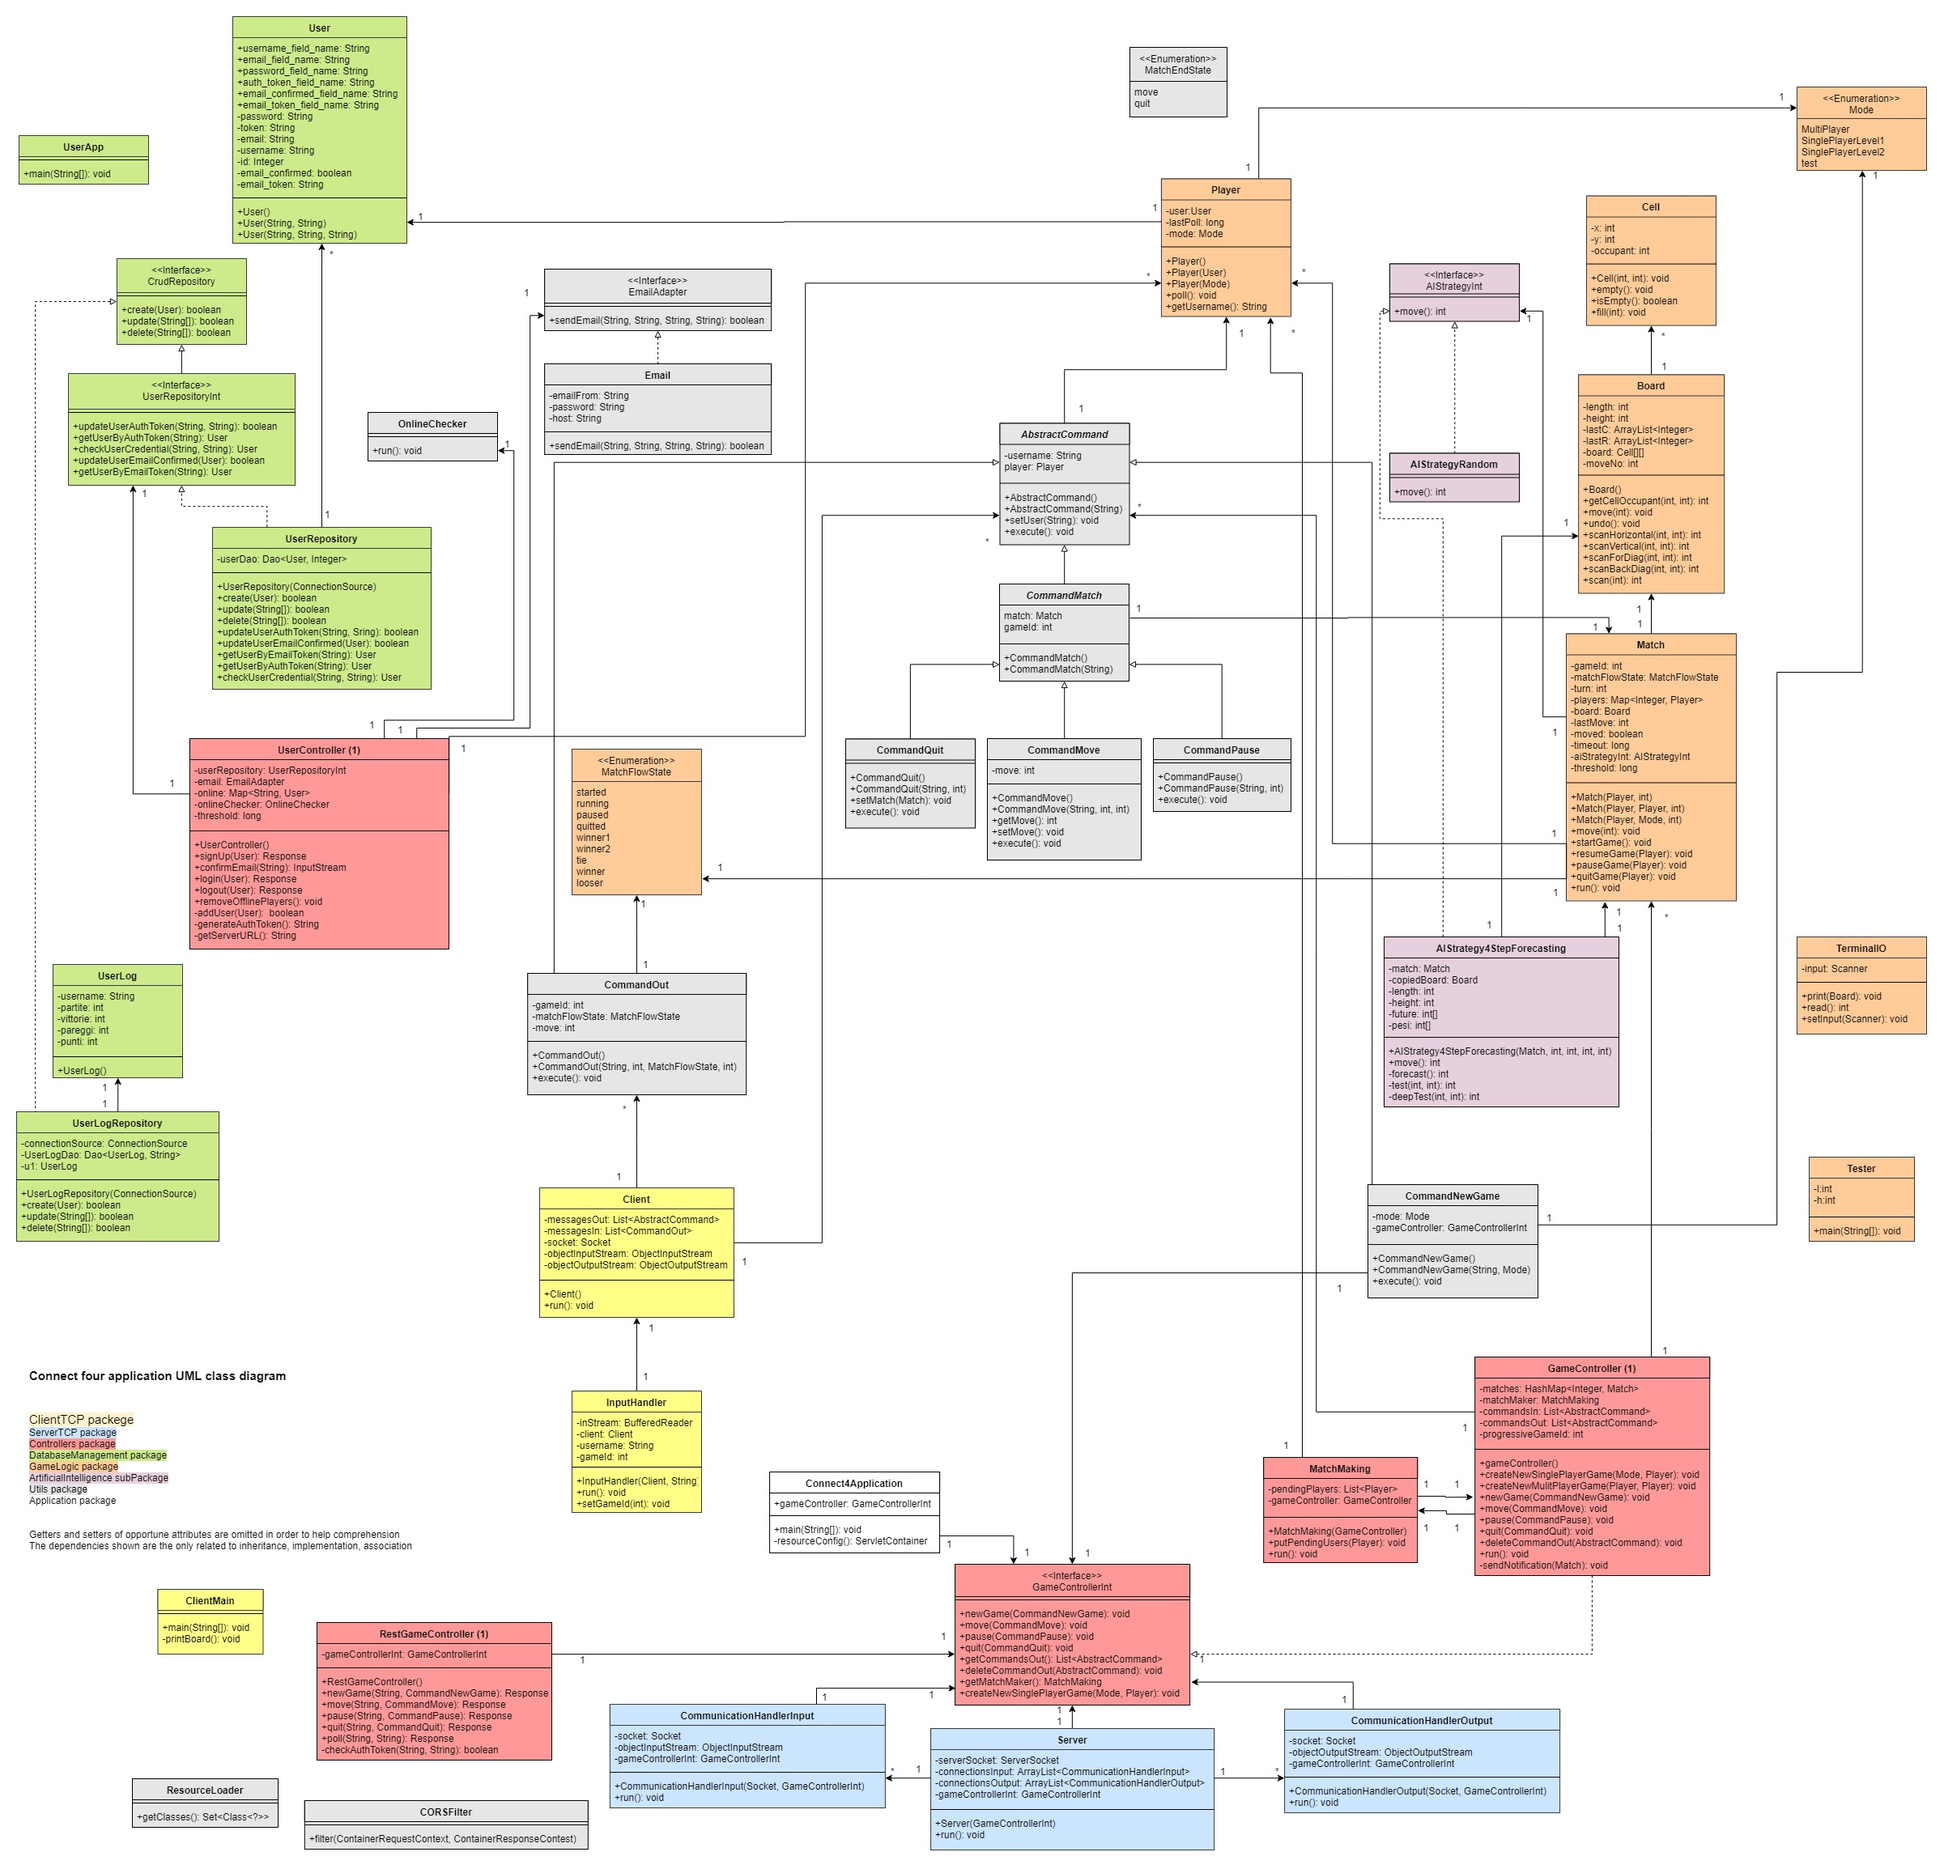
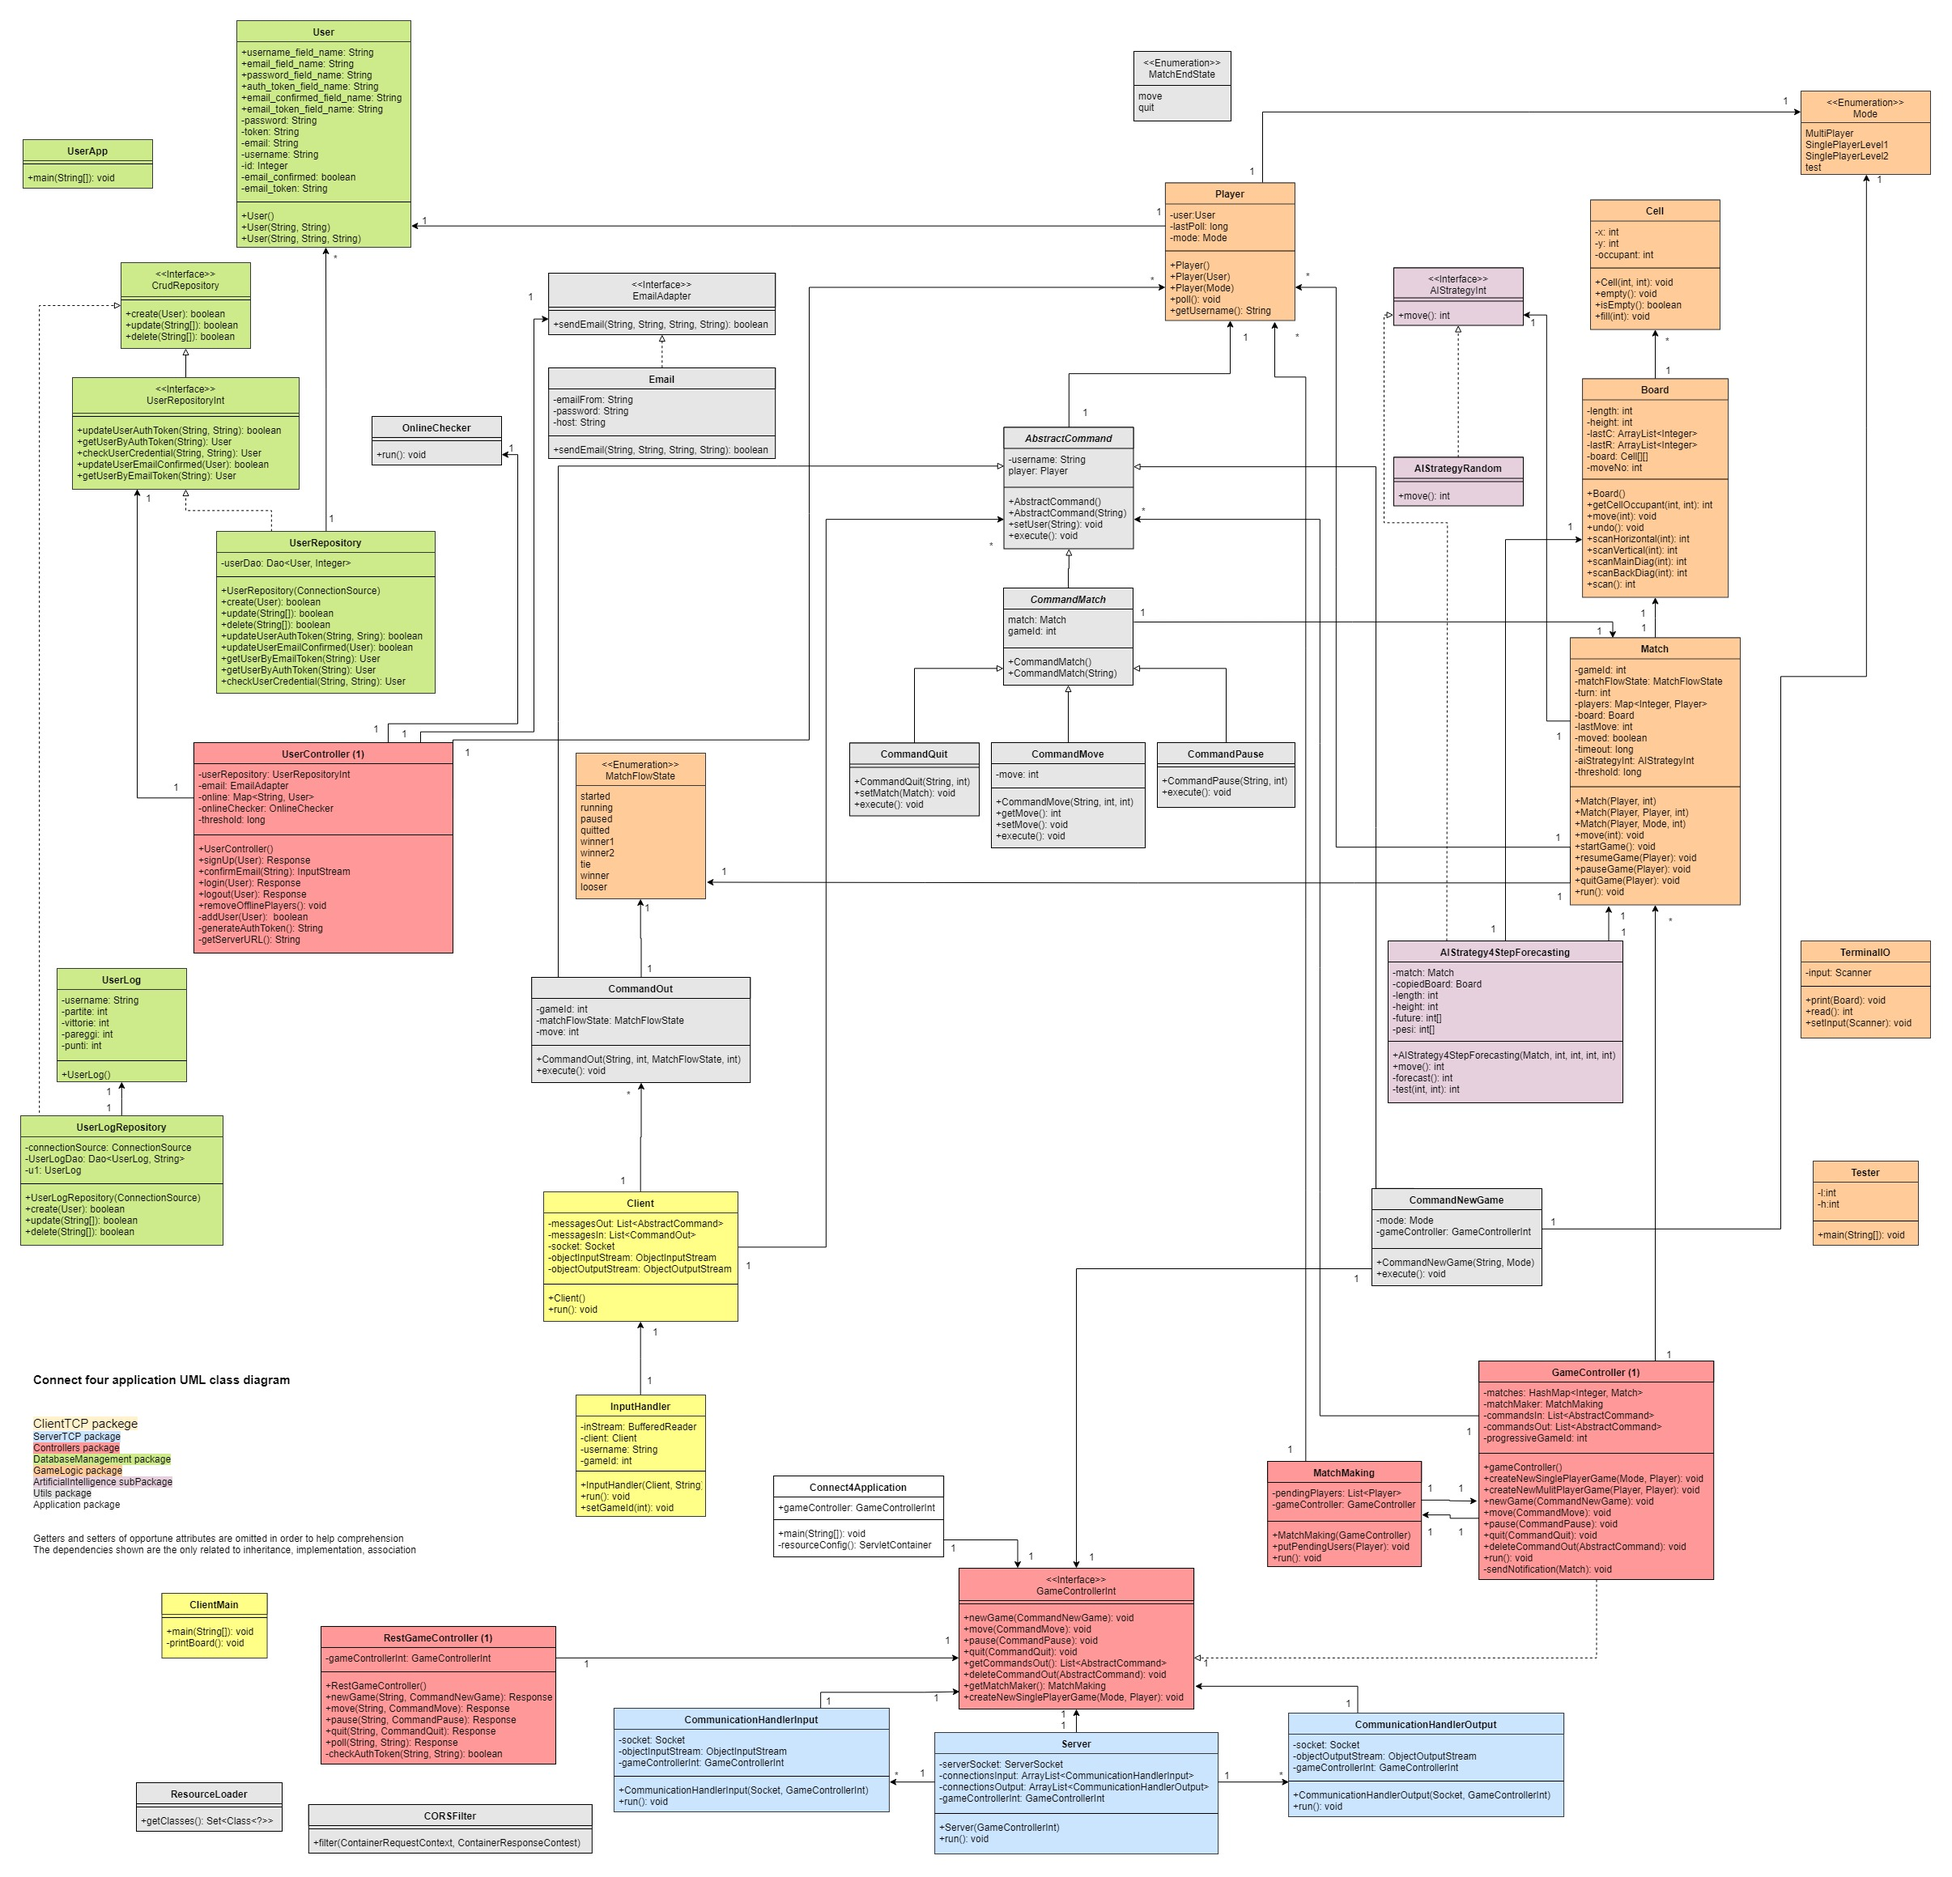
test class aligned to the refactor

diff --git a/src/main/java/Tests/BoardTest.java b/src/main/java/Tests/BoardTest.java
@@ -69,10 +69,9 @@ class BoardTest {
         board.move(1,1);
         board.move(2,1);
         board.move(3,1);
-        assertEquals(1, board.scanHorizontal(0,4));
-        assertEquals(0, board.scanHorizontal(4,4));
-        assertEquals(1, board.scanHorizontal(0,3));
-        assertEquals(0, board.scanHorizontal(4,3));
+        assertEquals(0, board.scanHorizontal(5));
+        assertEquals(1, board.scanHorizontal(4));
+        assertEquals(1, board.scanHorizontal(3));
     }
 
     @Test
@@ -83,10 +82,9 @@ class BoardTest {
         board.move(0,1);
         board.move(0,1);
         board.move(0,1);
-        assertEquals(1, board.scanVertical(0,4));
-        assertEquals(0, board.scanVertical(1,4));
-        assertEquals(1, board.scanVertical(0,3));
-        assertEquals(0, board.scanVertical(1,3));
+        assertEquals(0, board.scanVertical(5));
+        assertEquals(1, board.scanVertical(4));
+        assertEquals(1, board.scanVertical(3));
     }
 
     @Test
@@ -103,10 +101,9 @@ class BoardTest {
         board.move(2,1);
         board.move(2,1);
         board.move(3,1);
-        assertEquals(1, board.scanMainDiag(3,4));
-        assertEquals(0, board.scanMainDiag(4,4));
-        assertEquals(1, board.scanMainDiag(3,3));
-        assertEquals(0, board.scanMainDiag(4,3));
+        assertEquals(0, board.scanMainDiag(5));
+        assertEquals(1, board.scanMainDiag(4));
+        assertEquals(1, board.scanMainDiag(3));
     }
 
     @Test
@@ -123,9 +120,8 @@ class BoardTest {
         board.move(1,1);
         board.move(1,1);
         board.move(0,1);
-        assertEquals(1, board.scanBackDiag(0,4));
-        assertEquals(0, board.scanBackDiag(5,4));
-        assertEquals(1, board.scanBackDiag(0,3));
-        assertEquals(0, board.scanBackDiag(5,3));
+        assertEquals(0, board.scanBackDiag(5));
+        assertEquals(1, board.scanBackDiag(4));
+        assertEquals(1, board.scanBackDiag(3));
     }
 }
